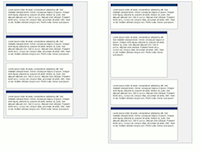
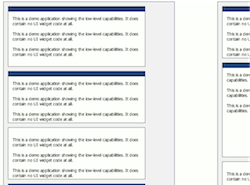
Changed the welcome page in the demobrowser to feature the showcase.
git-svn-id: https://qooxdoo.svn.sourceforge.net/svnroot/qooxdoo/trunk/qooxdoo@21121 61aaf1ca-a10e-0410-b9fb-ac63ec25887f

diff --git a/application/demobrowser/source/demo/welcome.html b/application/demobrowser/source/demo/welcome.html
@@ -79,71 +79,33 @@
 <body>
   <div id="content">
     <h1>Welcome</h1>
-
-    <p>Please use the tree to the left to choose demos, or choose one of our highlights:</p>
 		
+		<p>Take a look at the huge amount of demos here in the demo browser or try a 
+			 our other applications and see qooxdoo in action.</p>
 		<table>
 			<tbody>
 				<tr>
 					<td class="tableCell">
-						<a href="javascript:openDemo('showcase~Form.html')">
-							<img src="../resource/demobrowser/welcome/form.png">
-							<br>Form
+						<a href="http://demo.qooxdoo.org/1.0.x/showcase" target="_blank">
+							<img src="../resource/demobrowser/welcome/showcase.png">
+						  <br>Showcase
 						</a>
 					</td>
-					<td class="tableCell">
-						<a href="javascript:openDemo('table~Table.html')">
-							<img src="../resource/demobrowser/welcome/Table.png">
-							<br>Table
-						</a>
-					</td>
-					<td class="tableCell">
-						<a href="javascript:openDemo('layout~Grid_Animated.html')">
-							<img src="../resource/demobrowser/welcome/grid.png">
-							<br>Grid Layout
-						</a>
-					</td>
-				</tr>
-				<tr>
-					<td class="tableCell">
-						<a href="javascript:openDemo('ui~FormValidator.html')">
-							<img src="../resource/demobrowser/welcome/validation.png">
-							<br>From Validation
-						</a>
-					</td>					
-					<td class="tableCell">
-						<a href="javascript:openDemo('showcase~Localization.html')">
-						  <img src="../resource/demobrowser/welcome/localization.png">
-						  <br>Localization
-						</a>
-					</td>
-					<td class="tableCell">
-						<a href="javascript:openDemo('data~Twitter.html')">
-							<img src="../resource/demobrowser/welcome/Twitter.png">
-						  <br>Twitter
-						</a>
-					</td>
-				</tr>			
-			</tbody>
-		</table>
-		
-		<br><br>
-		<p>Or take a look at our other applications:</p>
-		<table>
-			<tbody>
-				<tr>
 					<td class="tableCell">
 						<a href="http://demo.qooxdoo.org/1.0.x/playground" target="_blank">
 							<img src="../resource/demobrowser/welcome/playground.png">
 						  <br>Playground							
 						</a>
 					</td>
+				</tr>
+				<tr>
 					<td class="tableCell">
 						<a href="http://demo.qooxdoo.org/1.0.x/feedreader" target="_blank">
 							<img src="../resource/demobrowser/welcome/feedreader.png">
 						  <br>Feedreader
 						</a>
 					</td>
+
 					<td class="tableCell">
 						<a href="http://demo.qooxdoo.org/1.0.x/portal" target="_blank">
 							<img src="../resource/demobrowser/welcome/portal.png">
